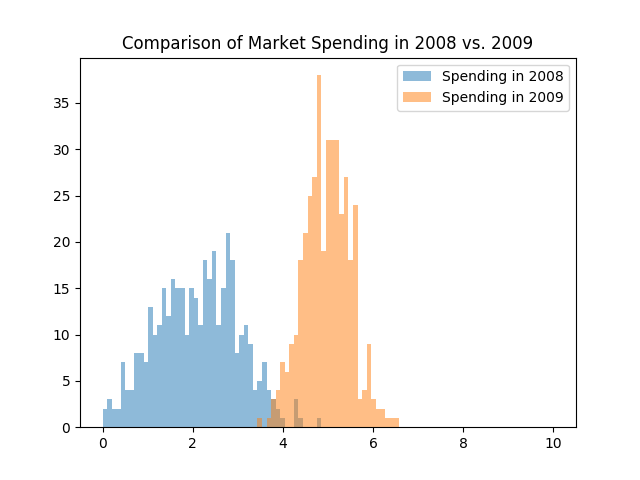
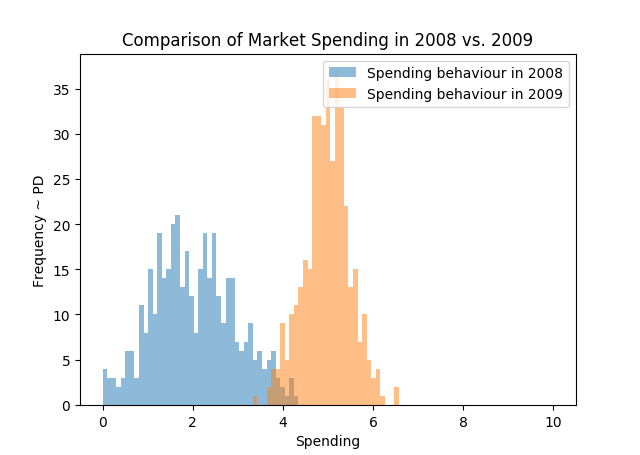
Phase 3 (50% done) nce plots and p-values and Test stat (T) computed

diff --git a/scripts/main.py b/scripts/main.py
@@ -119,6 +119,25 @@ T, p = stats.wilcoxon(x=delta_2008_to_2009_arr, y=None, zero_method='wilcox', co
 
 print((T,p)) # T = 121.0, p = 0.02182... // NOTE: Brilliant! we obtain exactly the same T and p values, which confirms the behaviour of the wilcoxon package is entirely consistent.
 
+#
+# Summary Print
+#
+
+print("Wilcoxon signed-rank test: COMPLETE...")
+
+print("\t"+"Test statistic value computed as: "+str(T))
+print("\t"+"Pr( T_obs_data[/alpha] > T_null) = p-value computed as: "+str(p))
+
+print("###########")
+print("# SUMMARY #")
+print("###########")
+
+if float(p)<0.05:
+
+    print("Congratulations, at a critical value (alpha) corresponding to a p-value threshold of 0.05, we can reject H_null (H0). Since your computed p-value of "+str(p)+" it is less than 0.05") 
+else:
+
+    print("Woops, your p-value is greater than 0.05. The null hypothesis cannot be rejected, given the current alpha setting.")
 
 ##
 ## Plotting the data
@@ -171,8 +190,10 @@ y = [random.gauss(5,0.5) for _ in range(400)]
 
 bins = numpy.linspace(0, 10, 100)
 
-pyplot.hist(x, bins, alpha=0.5, label='Spending in 2008')
-pyplot.hist(y, bins, alpha=0.5, label='Spending in 2009')
+pyplot.hist(x, bins, alpha=0.5, label='Spending behaviour in 2008')
+pyplot.hist(y, bins, alpha=0.5, label='Spending behaviour in 2009')
 pyplot.legend(loc='upper right')
 pyplot.title("Comparison of Market Spending in 2008 vs. 2009")
+pyplot.xlabel("Spending")
+pyplot.ylabel("Frequency ~ PD")
 pyplot.show()
